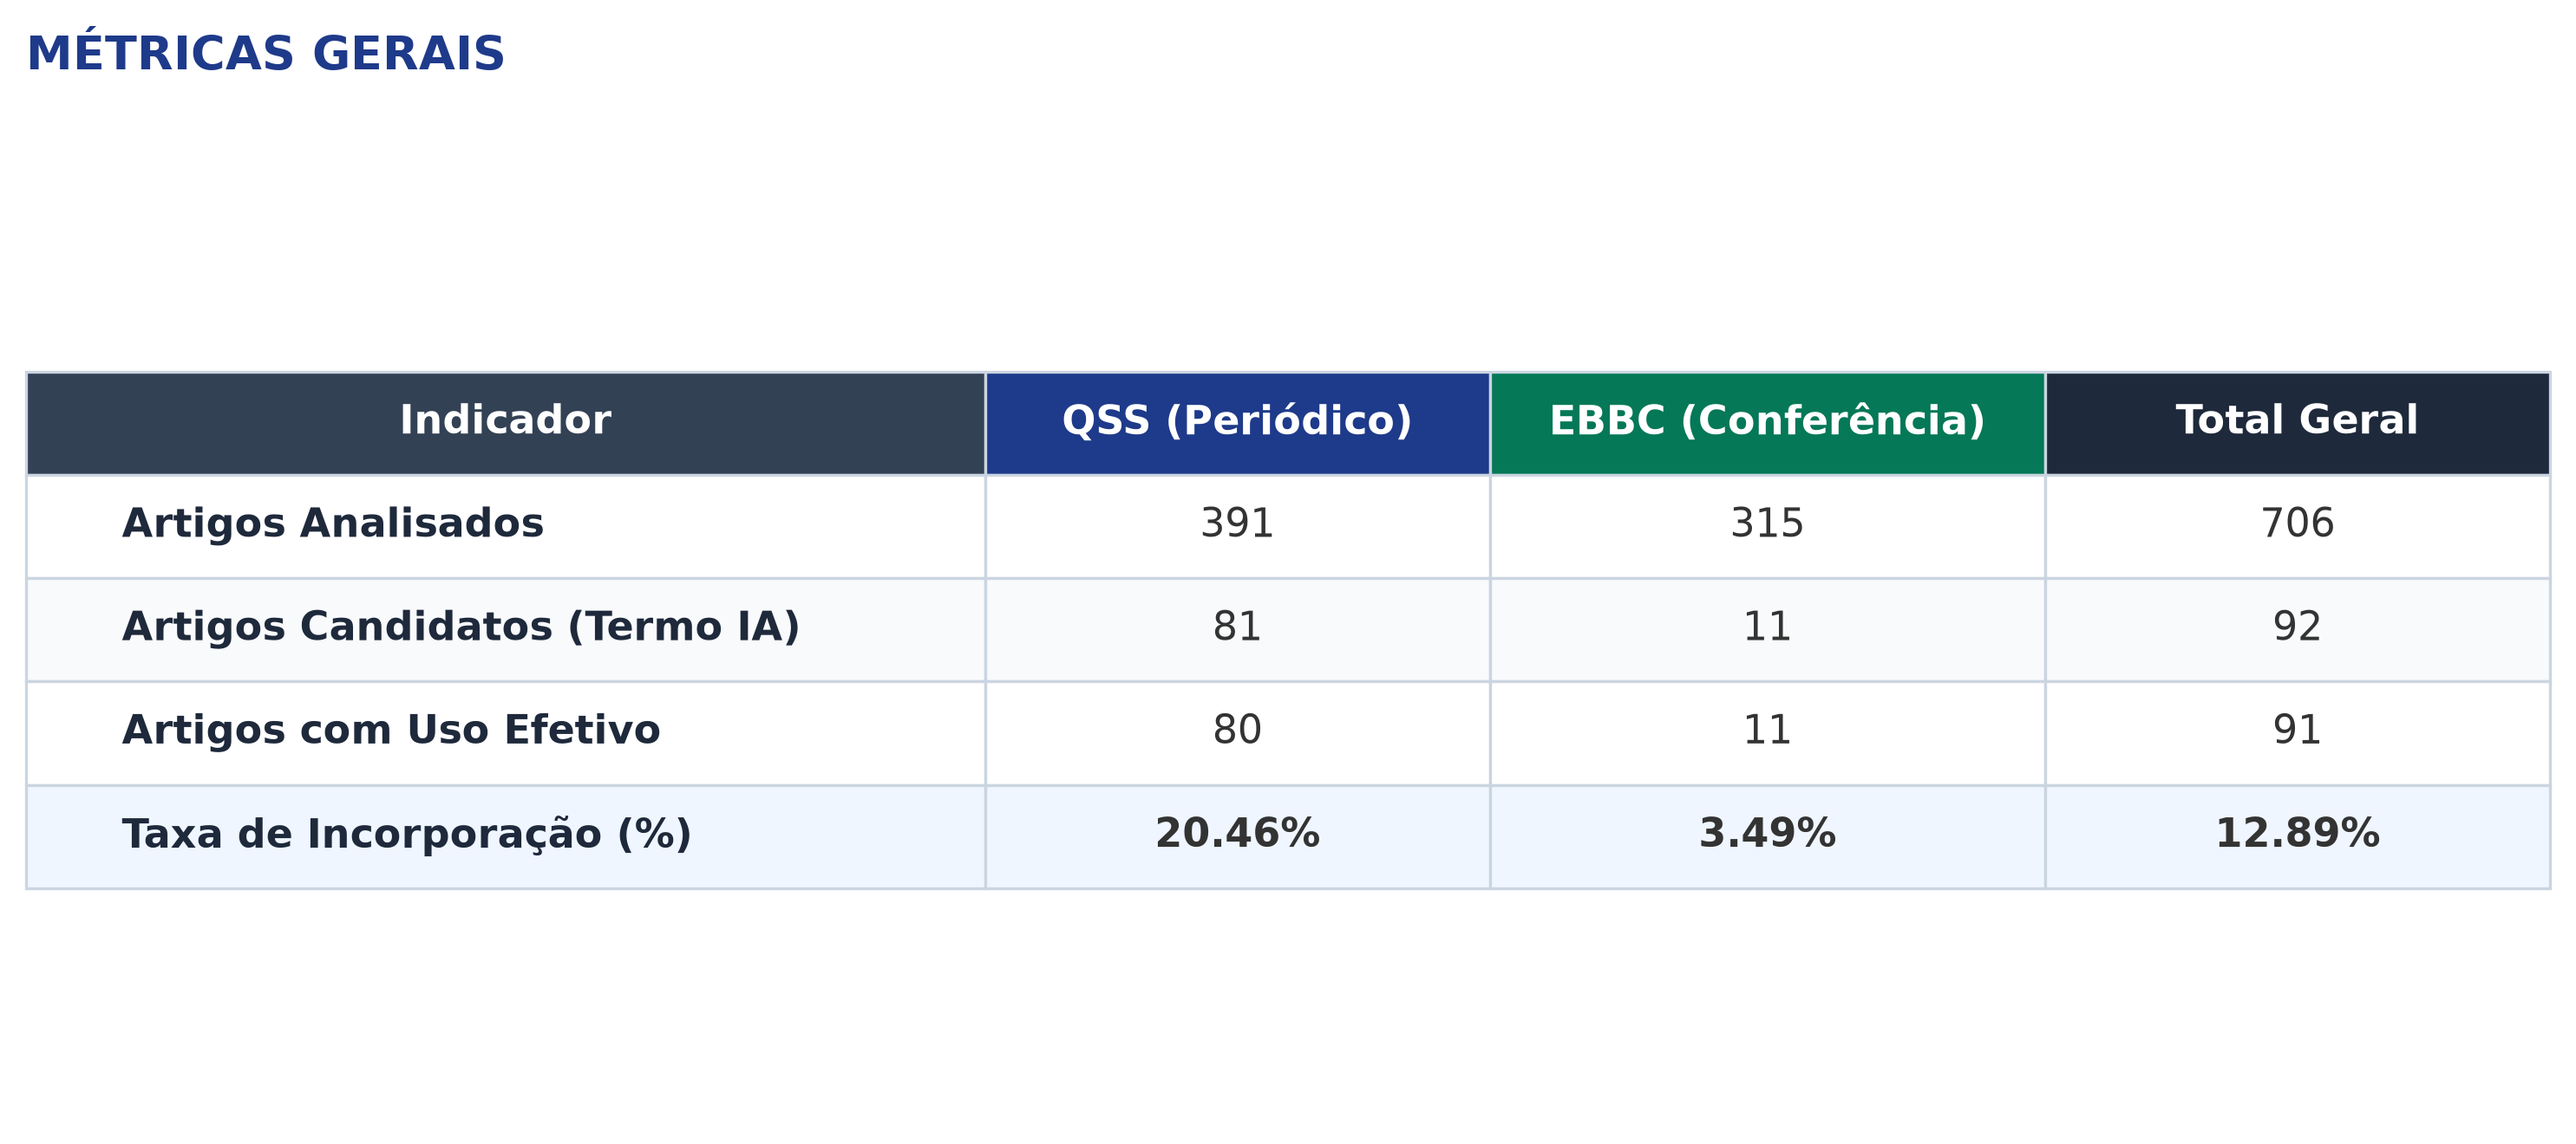
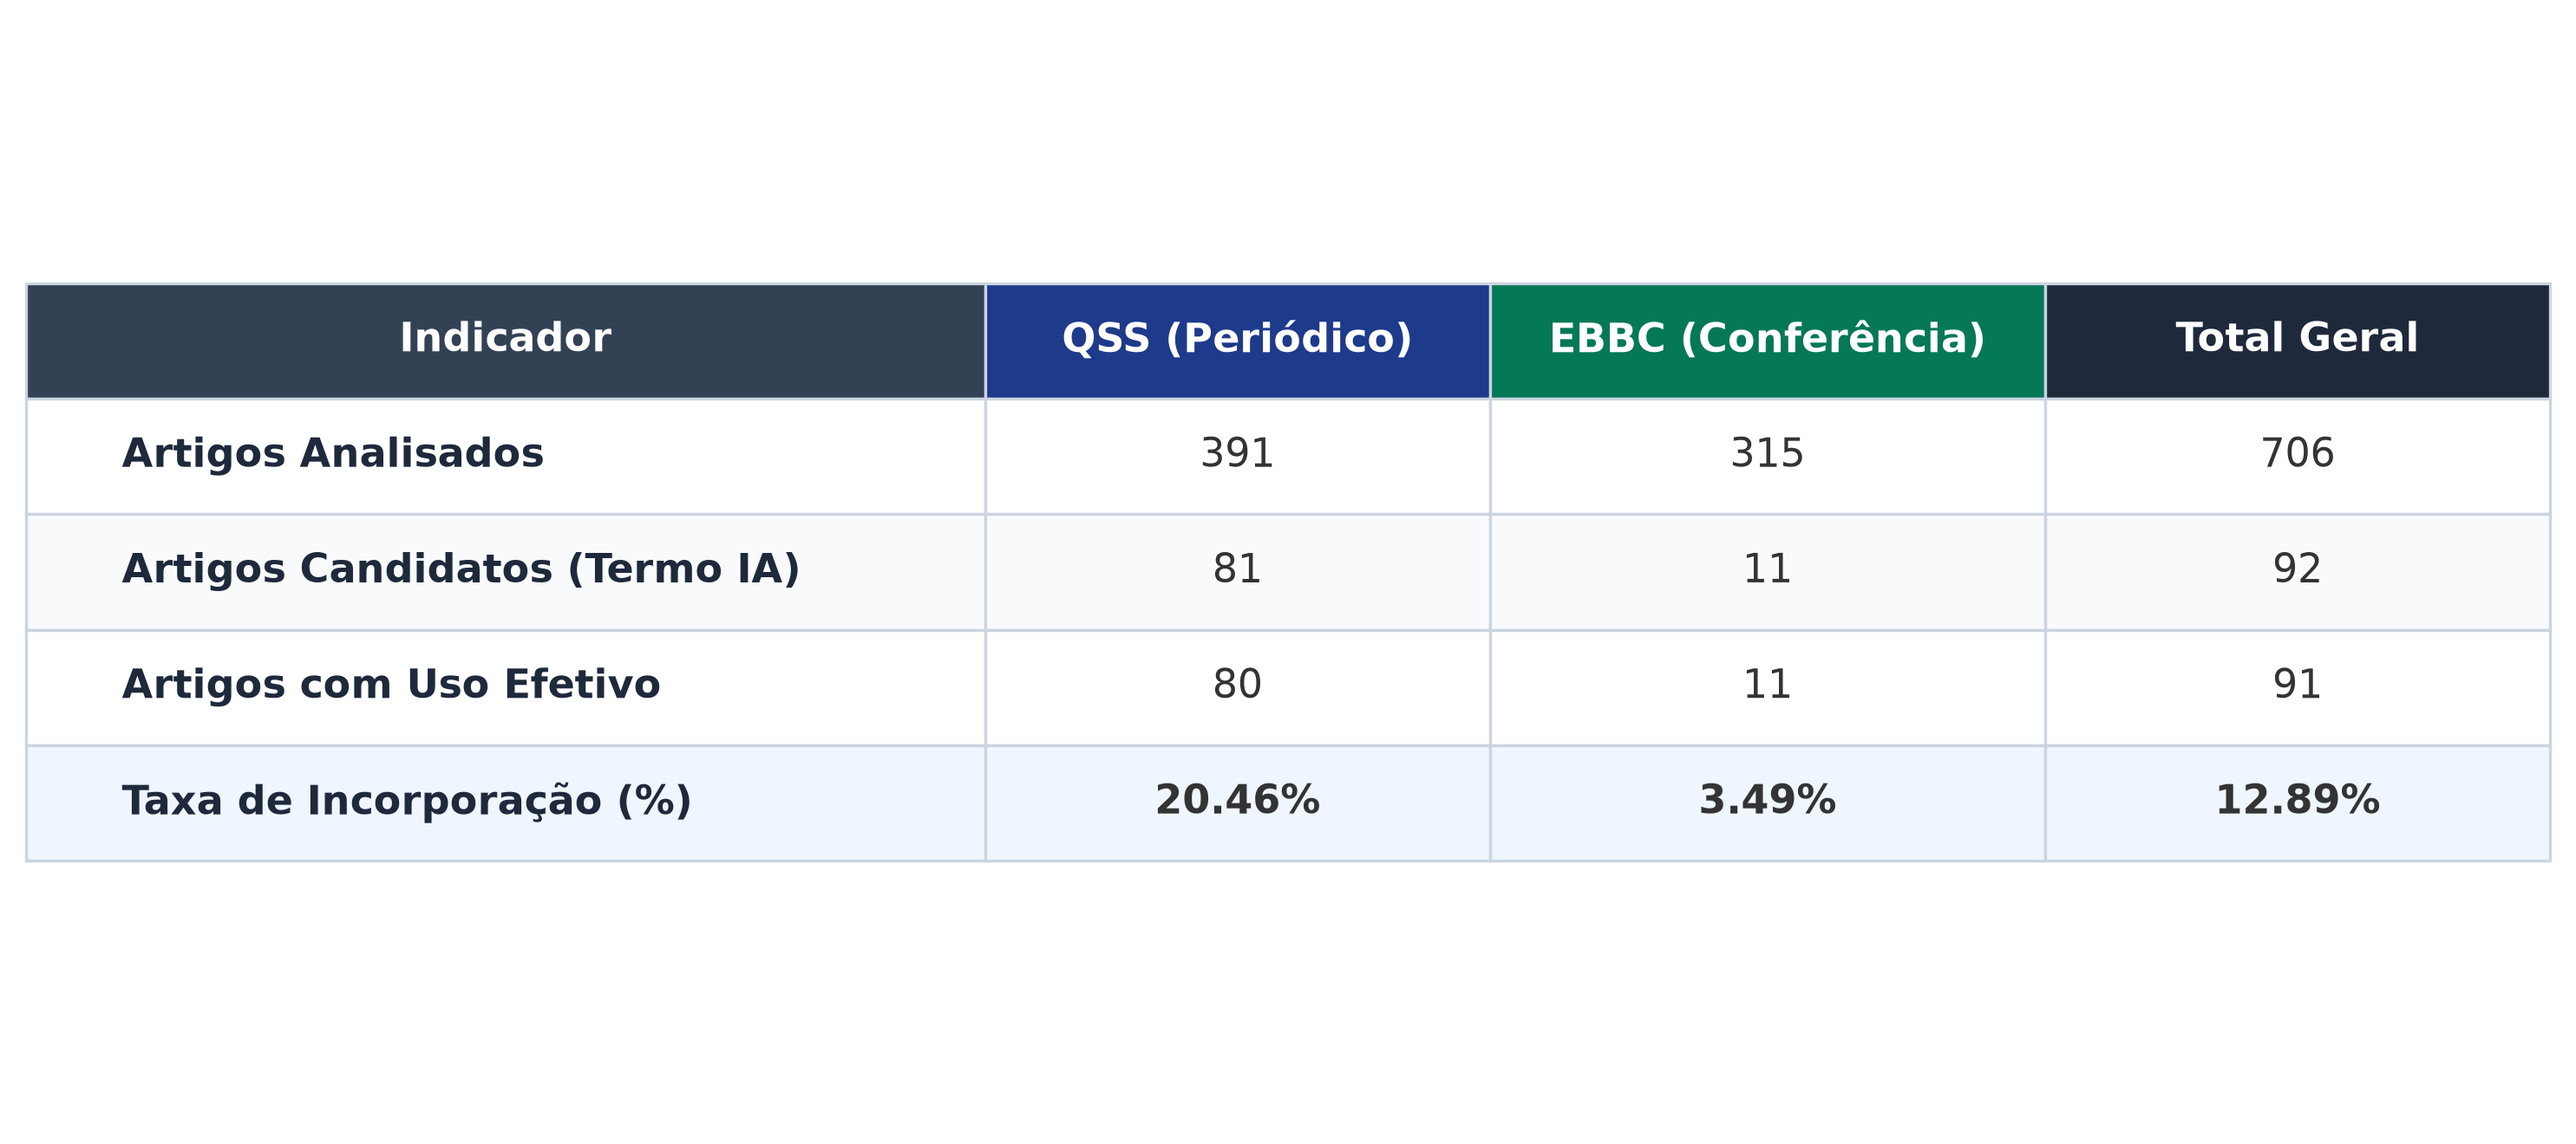
style: remove titulos das imagens de tabelas para manter apenas a grade sobre fundo transparente

diff --git a/scripts/generate_plots.py b/scripts/generate_plots.py
@@ -62,14 +62,6 @@ def generate_table_metrics():
             else:
                 cell.set_facecolor('#FFFFFF')
 
-    plt.title(
-        "MÉTRICAS GERAIS",
-        fontsize=13,
-        weight='bold',
-        color='#1E3A8A',
-        pad=20,
-        loc='left'
-    )
     plt.tight_layout()
     plt.savefig(output_path, bbox_inches='tight', transparent=True)
     plt.close()
@@ -132,14 +124,6 @@ def generate_table_subgroups():
             else:
                 cell.set_facecolor('#FFFFFF')
 
-    plt.title(
-        "DISTRIBUIÇÃO DE SUBGRUPOS METODOLÓGICOS (Apenas trabalhos que usaram IA)",
-        fontsize=13,
-        weight='bold',
-        color='#1E3A8A',
-        pad=20,
-        loc='left'
-    )
     plt.tight_layout()
     plt.savefig(output_path, bbox_inches='tight', transparent=True)
     plt.close()
